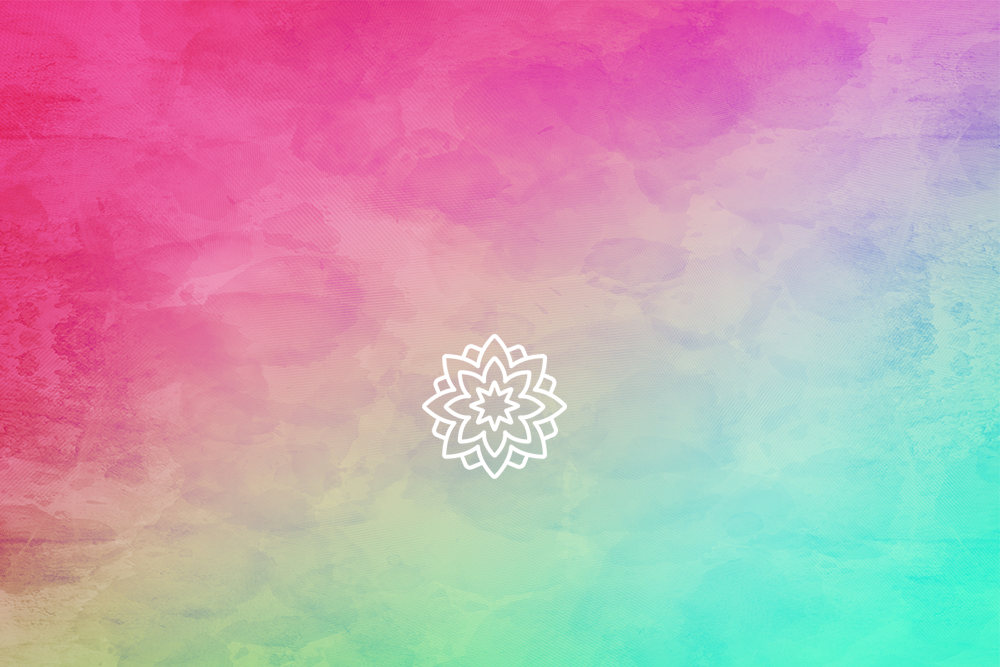
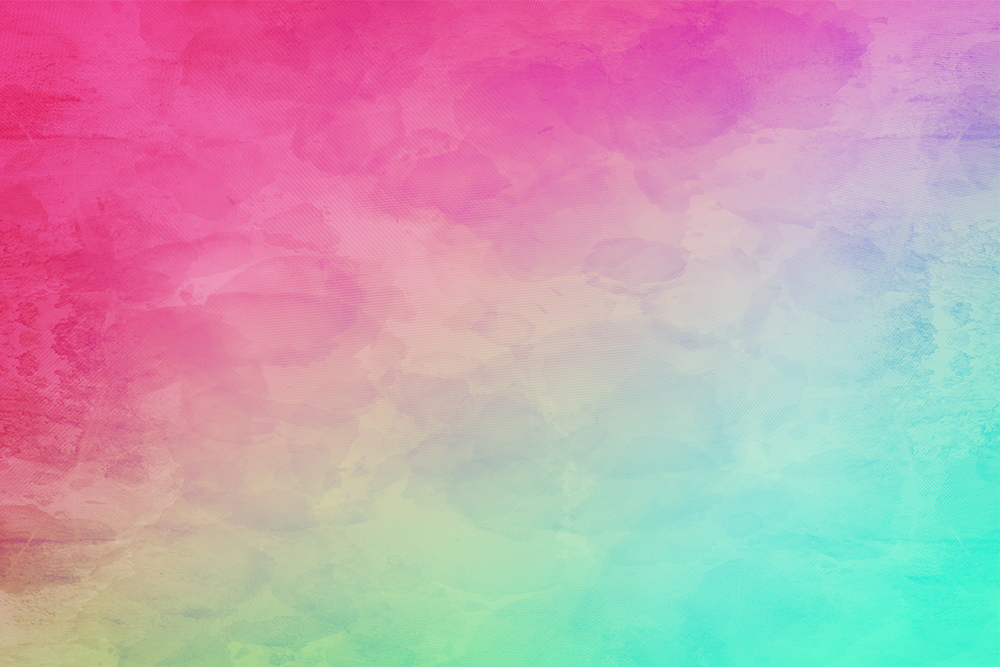
added a wellness info section

Changed region(s): [[0.403, 0.5097, 0.589, 0.7196]]

diff --git a/public_html/css/style.css b/public_html/css/style.css
@@ -51,15 +51,21 @@ Font
 #wellness-businesses {
 	font-size: 40px;
 	margin-right: 60px;
-	margin-top: 400px;
+	margin-top: 200px;
 }
-
+#wellness {
+	margin-top: 150px;
+}
+#floated {
+	float: left;
+	width: 550px;
+}
 /**********
 About
 *************/
 #about {
-	margin-bottom: 20px;
-	padding-top: 20px;
+	margin-bottom: px;
+	padding-top: px;
 	padding-bottom: 10px;
 }
 

diff --git a/public_html/index.php b/public_html/index.php
@@ -91,8 +91,12 @@
 						<div class="column">
 							<div class="container pt-5">
 								<h1 class="display-3 text-center font-weight-bold">Chrystal Copeland</h1>
-								<p class="lead text-center" id="subtext">Making the internet a healthier place to be, one website at
+								<p class="lead text-center" id="subtext">Making the internet a healthier place to be, one
+									website at
 									a time.</p>
+							</div>
+							<div class="flex-container-1">
+								<img class="img-fluid d-block mx-auto" src="images/dahlia-white.png" height="200" width="200">
 							</div>
 						</div>
 						<ul class="flex-container-2" id="wellness-businesses">
@@ -106,30 +110,42 @@
 					</div>
 				</div>
 			</section>
-
-
-			<!--About Section-->
+			<!-- Wellness Clients-->
 			<section class="py-5">
-				<div class="container" id="about">
-					<h2>About</h2>
+				<div class="container" id="wellness">
+					<h2>What is Wellness?</h2>
 					<div class="row">
-						<div class="col-sm-3">
-							<img class="img-fluid d-block mx-auto"
-								  src="images/chrystal-copeland-headshot.jpg" alt="Chrystal Copeland">
-						</div>
-						<div class="col-sm-9">
-							<p class="lead">Cupcake ipsum dolor. Sit amet marshmallow topping cheesecake muffin.
-								Halvah
-								croissant
-								candy canes bonbon candy. Apple pie jelly beans topping carrot cake danish tart cake
-								cheesecake.
-								Muffin danish chocolate soufflé pastry icing bonbon oat cake.
-								Powder cake jujubes oat cake. Lemon drops tootsie roll marshmallow halvah carrot cake.
+						<div class="col">
+							<p>
+								The health and wellness industry is currently worth an estimated $4.2 Trillion with growth twice
+								as fast as the global economy. The wellness economy is driven by holistic lifestyles that
+								incorporate activities like yoga, massage therapy, acupuncture, chiropractic, fitness and
+								nutrition. It also includes a broader spectrum of services, products and travel such as wellness
+								real-estate, beauty and anti-aging products, destination wellness retreats, and workplace
+								wellness.
+							</p>
+							<div id="floated">
+								<img src="images/globalwellnesseconomy2017.png" height="400px">
+							</div>
+							<p>
+								With an ever growing demand and increasing diversity in products, services, and tourism within
+								the wellness industry; it is essential that web developers, marketers and creators who are
+								experienced in the wellness field cultivate relationships with the businesses and people who are
+								striving the make a difference in the lives of those around them. With the right leadership and
+								excellent digital strategies, a small business can be poised to become the next tourist
+								destination or become the local expert in their industry.
+							</p>
+							<p>
+								Additionally, with a worth of $4.2 trillion dollars, the wellness industry is proving to be a
+								market worth targeting for marketing and web development professionals. The addition of health
+								and wellness experts who are also tech savy can speak the language of both the "wellness chic
+								and the development geek" easily navigating both worlds to lead effective
+								communication and happy clients with happy profits.
+							</p>
 						</div>
 					</div>
 				</div>
 			</section>
-			</div>
 			<!-- portfolio images -->
 			<!-- ABQ Bikes -->
 			<section class="py-5">
@@ -188,8 +204,28 @@
 					</div>
 				</div>
 			</section>
-
-
+			<!--About Section-->
+			<section class="py-5">
+				<div class="container" id="about">
+					<h2>About</h2>
+					<div class="row">
+						<div class="col-sm-3">
+							<img class="img-fluid d-block mx-auto"
+								  src="images/chrystal-copeland-headshot.jpg" alt="Chrystal Copeland">
+						</div>
+						<div class="col-sm-9">
+							<p class="lead">Cupcake ipsum dolor. Sit amet marshmallow topping cheesecake muffin.
+								Halvah
+								croissant
+								candy canes bonbon candy. Apple pie jelly beans topping carrot cake danish tart cake
+								cheesecake.
+								Muffin danish chocolate soufflé pastry icing bonbon oat cake.
+								Powder cake jujubes oat cake. Lemon drops tootsie roll marshmallow halvah carrot cake.
+						</div>
+					</div>
+				</div>
+			</section>
+			</div>
 			<!-- Contact Form Container -->
 			<section class="container-fluid backgroundimg">
 				<div class="container" id="contact-section">
